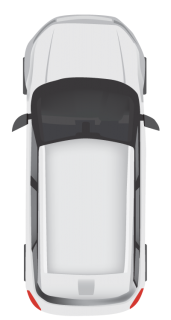
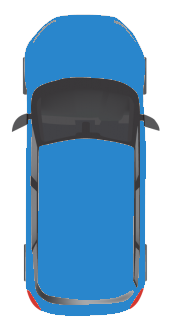
Implemented Traffic and Collisions

diff --git a/car.py b/car.py
@@ -5,36 +5,47 @@ from controls import *
 from sensors import *
 
 class Car:
-    def __init__(self, x, y, width, height):
+    def __init__(self, x, y, width, height, controlType, maxSpeed = 5):
         self.x = x
         self.y = y
         self.width = width
         self.height = height
+        
 
         self.speed = 0
-        self.maxSpeed = 5
+        self.maxSpeed = maxSpeed
         self.friction = 0.05
         self.acceleration = 0.3
         self.angle = 0
         self.damaged = False
 
-        self.sensor = Sensor(self)
 
-        self.controls = Controls()
-        self.carImage = pygame.transform.scale(pygame.image.load("car2.png").convert_alpha(), (self.width,self.height))
+        if controlType != "DUMMY":
+            self.sensor = Sensor(self)
+            self.carImage = pygame.transform.scale(pygame.image.load("car.png").convert_alpha(), (self.width,self.height))
+        else:
+            self.carImage = pygame.transform.scale(pygame.image.load("car2.png").convert_alpha(), (self.width,self.height))
+        self.controls = Controls(controlType)
     
 
-    def update(self, roadBorders):
+    def update(self, roadBorders, traffic):
         if not self.damaged:
             self.move()
             self.polygon = self.createPolygon()
-            self.damaged = self.assessDamage(roadBorders)
-        self.sensor.update(roadBorders)
+            self.damaged = self.assessDamage(roadBorders, traffic)
+        
+        if hasattr(self, "sensor"):
+            self.sensor.update(roadBorders, traffic)
 
 
-    def assessDamage(self, roadBorders):
+    def assessDamage(self, roadBorders, traffic):
         for i in range(len(roadBorders)):
             if(polysIntersect(self.polygon, roadBorders[i])):
+                # print("BorderCollision")
+                return True
+        for i in range(len(traffic)):
+            if(polysIntersect(self.polygon, traffic[i].polygon)):
+                # print("CarCollision")
                 return True
         return False
     
@@ -100,8 +111,8 @@ class Car:
 
     # function to draw the car on the screen
     def draw(self, screen):
-        
-        self.sensor.draw(screen)
+        if hasattr(self, "sensor"):
+            self.sensor.draw(screen)
         
         temp_rotated_image = pygame.transform.rotate(self.carImage, math.degrees(self.angle))
         carImage_rect = self.carImage.get_rect(center = (self.width/2 + self.x, self.height/2 + translateY(self.y)))

diff --git a/sensors.py b/sensors.py
@@ -11,20 +11,27 @@ class Sensor:
         self.rays = []
         self.readings = []
 
-    def update(self, roadBorders):
+    def update(self, roadBorders, traffic):
         self.castRays()
         self.readings = []
         for i in range(len(self.rays)):
-            self.readings.append(self.getReading(self.rays[i], roadBorders))
+            self.readings.append(self.getReading(self.rays[i], roadBorders, traffic))
     
 
-    def getReading(self, ray, roadBorders):
+    def getReading(self, ray, roadBorders, traffic):
         touches = []
         for i in range(len(roadBorders)):
             touch = getIntersection(ray[0], ray[1], roadBorders[i][0], roadBorders[i][1])
             if touch:
                 touches.append(touch)
         
+        for i in range(len(traffic)):
+            poly = traffic[i].polygon
+            for j in range(len(poly)):
+                value = getIntersection(ray[0], ray[1], poly[j], poly[(j+1)%len(poly)])
+                if value:
+                    touches.append(value)
+
         if len(touches) == 0:
             return 0
         else:

diff --git a/main.py b/main.py
@@ -15,8 +15,12 @@ done = False
 clock = pygame.time.Clock()
 
 # Create the car and other elements
-car = Car(85,100,35,55)
 road = Road(100, 200 * 0.9)
+car = Car(road.getLaneCenter(2),100,30,50, "KEYS")
+
+traffic = [
+    Car(road.getLaneCenter(1), -100, 30, 50, "DUMMY", 2)
+]
 
 
 # main game loop
@@ -28,8 +32,14 @@ while not done:
 
     # draw game objects
     screen.fill((211, 211, 211))
+
+    for i in range(len(traffic)):
+        traffic[i].update(road.borders, [])
+
     road.draw(screen)
-    car.update(road.borders)
+    for i in range(len(traffic)):
+        traffic[i].draw(screen)
+    car.update(road.borders, traffic)
     car.draw(screen)
 
     # Camera tracks the car

diff --git a/utils.py b/utils.py
@@ -8,10 +8,10 @@ def translateY(y):
 
 def translate(y):
     global translate_y
-    translate_y = y + 280
+    translate_y = y + 200
 
 def getIntersection(A, B, C, D):
-    tTop = (D[0] - C[0]) * (A[0] - C[1]) - (D[1] - C[1]) * (A[0] - C[0])
+    tTop = (D[0] - C[0]) * (A[1] - C[1]) - (D[1] - C[1]) * (A[0] - C[0])
     uTop = (C[1] - A[1]) * (A[0] - B[0]) - (C[0] - A[0]) * (A[1] - B[1])
     bottom = (D[1] - C[1]) * (B[0] - A[0]) - (D[0] - C[0]) * (B[1] - A[1])
 

diff --git a/controls.py b/controls.py
@@ -2,13 +2,17 @@ import pygame
 
 class Controls:
 
-    def __init__(self):
+    def __init__(self, type):
         self.forward = False
         self.left = False
         self.right = False
         self.reverse = False
+        self.type = type
     
     def listenToKeyboard(self):
+        if self.type == "DUMMY":
+            self.forward = True
+            return
         keys = pygame.key.get_pressed()
         
         # Right

diff --git a/road.py b/road.py
@@ -1,4 +1,5 @@
 import pygame
+
 from utils import *
 class Road:
     def __init__(self, x, width, laneCount = 3):
@@ -29,6 +30,9 @@ class Road:
         ]
 
 
+    def getLaneCenter(self, laneIndex):
+        laneWidth = self.width/self.laneCount
+        return self.left + laneWidth/2 + laneIndex*laneWidth - 15
 
     def draw(self,screen):
         lineWidth = 5
